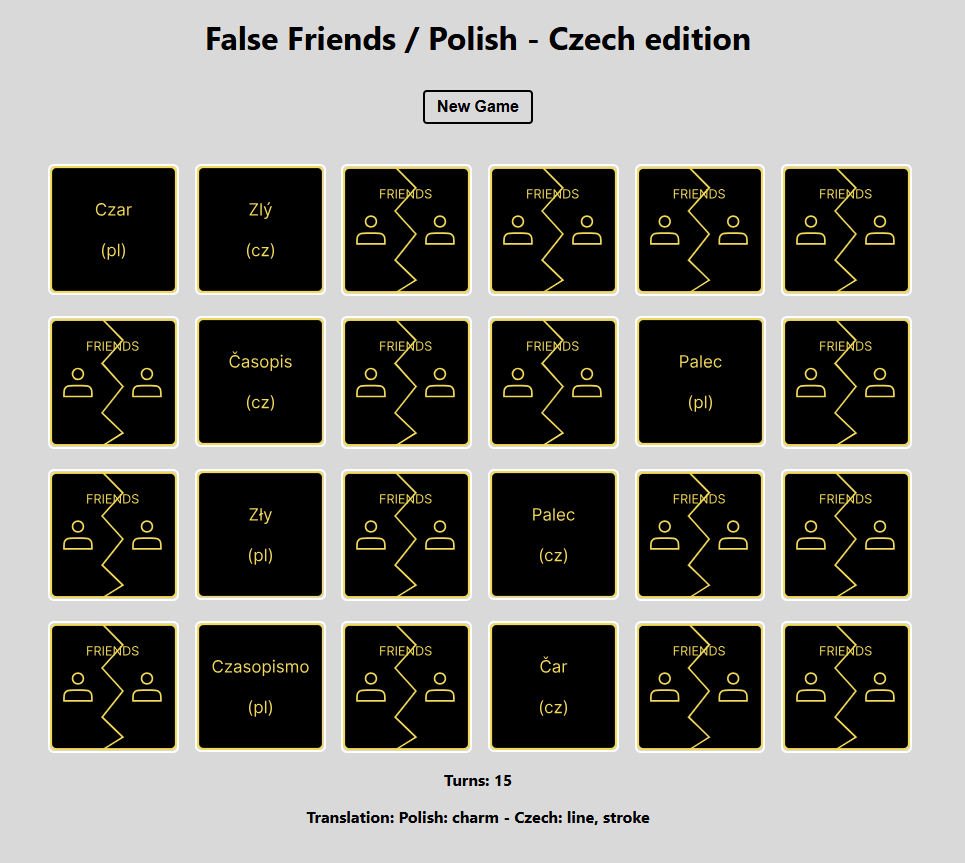
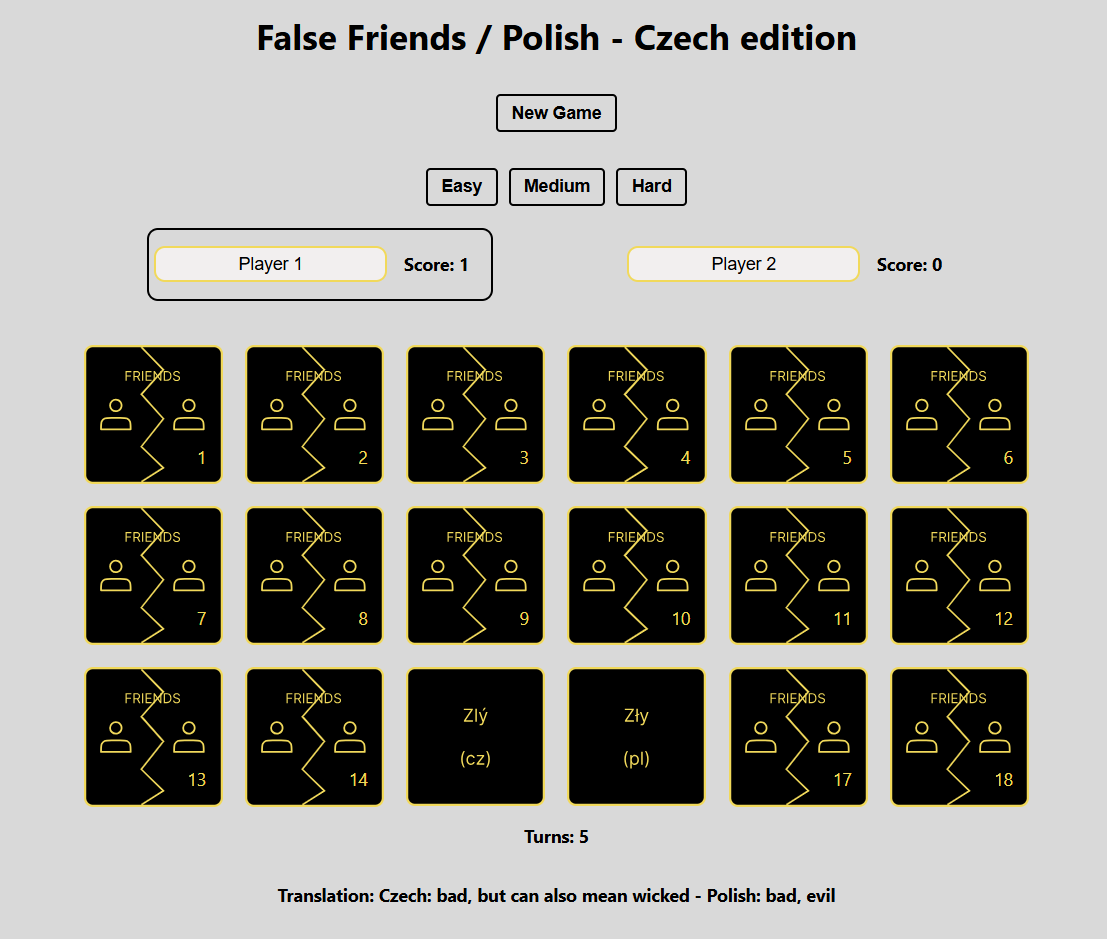
new styles

diff --git a/src/App.js b/src/App.js
@@ -112,6 +112,15 @@ export default function App() {
   return (
     <div className="App">
       <h1>False Friends / Polish - Czech edition</h1>
+
+      <div className="button">
+        <button onClick={shuffleCards}>New Game</button>
+      </div>
+      <div className="difficulty-buttons">
+        <button onClick={() => setDifficulty("easy")}>Easy</button>
+        <button onClick={() => setDifficulty("medium")}>Medium</button>
+        <button onClick={() => setDifficulty("hard")}>Hard</button>
+      </div>
       <div className="players">
         <div className={`player ${currentPlayer === 1 ? "active" : ""}`}>
           <input
@@ -129,14 +138,6 @@ export default function App() {
           />
           <p>Score: {player2.score}</p>
         </div>
-      </div>
-      <div className="difficulty-buttons">
-        <button onClick={() => setDifficulty("easy")}>Easy</button>
-        <button onClick={() => setDifficulty("medium")}>Medium</button>
-        <button onClick={() => setDifficulty("hard")}>Hard</button>
-      </div>
-      <div className="button">
-        <button onClick={shuffleCards}>New Game</button>
       </div>
       <div className="card-grid">
         {cards.map((card, index) => (

diff --git a/src/App.css b/src/App.css
@@ -15,6 +15,7 @@ button {
   background: none;
   border: 2px solid #000000;
   padding: 6px 12px;
+  margin: 0 5px 0 5px;
   border-radius: 4px;
   color: #000000;
   font-weight: bold;
@@ -27,7 +28,7 @@ button:hover {
 }
 
 .card-grid {
-  margin-top: 40px;
+  margin-top: 20px;
   display: grid;
   grid-template-columns: 1fr 1fr 1fr 1fr 1fr 1fr;
   grid-gap: 20px;
@@ -57,23 +58,31 @@ p {
   display: flex;
   justify-content: space-around;
   width: 100%;
-  margin-bottom: 20px;
+  margin: 20px;
 }
 
 .player {
+  display: flex;
   border: 2px solid transparent;
-  padding: 10px;
+  padding: 5px;
   border-radius: 10px;
   text-align: center;
 }
 
 .player input {
+  background-color: #f2efef;
   text-align: center;
   font-size: 1em;
   padding: 5px;
-  margin-bottom: 10px;
+  margin: 10px auto;
+  border-radius: 10px;
   border: none;
-  border-bottom: 2px solid #000000;
+  border: 2px solid #F1D95B;
+}
+
+.player p {
+  margin: 10px;
+  padding: 5px;
 }
 
 .player.active {
@@ -87,8 +96,7 @@ p {
 .card img {
   width: 100%;
   display: block;
-  /*border: 2px solid #fff;*/
-  /*border-radius: 6px;*/
+  border-radius: 6px;
 }
 
 .card .front {

diff --git a/src/components/SingleCard.css b/src/components/SingleCard.css
@@ -5,7 +5,6 @@
 .card img {
   width: 100%;
   display: block;
-  border: 2px solid #fff;
   border-radius: 6px;
 }
 
